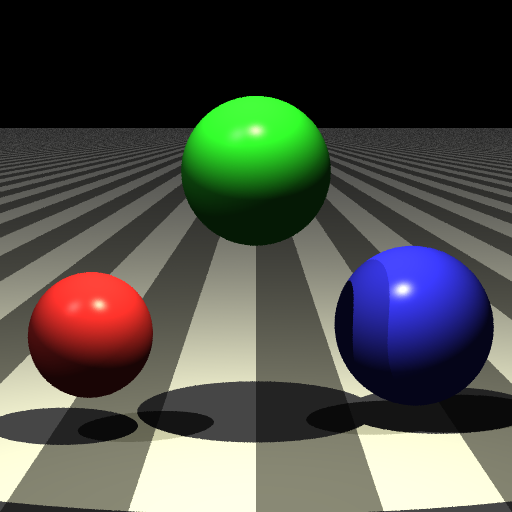
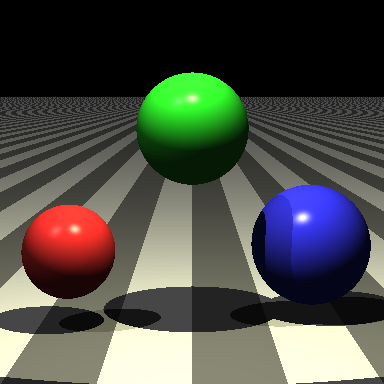
AA samples count from 4th parameter of e

diff --git a/main.cpp b/main.cpp
@@ -8,6 +8,9 @@
 #include <vector>
 #include <string>
 
+#define DEFAULT_RESOLUTION 384
+#define DAFAULT_GAMMA 1.0
+
 int main(int argc, char* argv[]) {
     if (argc < 2) {
         std::cerr << "Usage: " << argv[0] << " <scene_name_without_extension>\n";
@@ -19,39 +22,18 @@ int main(int argc, char* argv[]) {
     std::string output_file = "output_" + input_name + ".png";
 
     // Default values
-    int aa_samples = 1;
-    int px_height = 256;
-    int px_width = 256;
-    double gamma = 1.0;
+    int px_height = DEFAULT_RESOLUTION;
+    int px_width = DEFAULT_RESOLUTION;
+    double gamma = DAFAULT_GAMMA;
 
-    // Optional - Get Samples count
+    // Optional - Get resolution from input
     if (argc >= 3) {
         try {
-            aa_samples = std::stoi(argv[2]);
-            std::cout << "Got AA samples: " << aa_samples << "\n";
-        } catch (...) {
-            std::cerr << "Invalid AA sample count, using default.\n";
-        }
-    }
-
-    // Optional - Get resolution
-    if (argc >= 4) {
-        try {
-            int resolution = std::stoi(argv[3]);
+            int resolution = std::stoi(argv[2]);
             px_height = px_width = resolution;
             std::cout << "Got resolution: " << resolution << "\n";
         } catch (...) {
             std::cerr << "Invalid resolution, using default.\n";
-        }
-    }
-
-    // Optional - Get gamma
-    if (argc >= 5) {
-        try {
-            gamma = std::stod(argv[4]);
-            std::cout << "Got gamma: " << gamma << "\n";
-        } catch (...) {
-            std::cerr << "Invalid gamma value, using default.\n";
         }
     }
 
@@ -73,8 +55,12 @@ int main(int argc, char* argv[]) {
 
     // Camera
     auto camera_center = scene_parser.get_eye();
-    //int aa_samples = scene_parser.get_aa_multisampling();
     camera cam(camera_center, px_height, px_width, color(0, 0, 0)); // black bg
+
+    // get anti-aliasing samples from 4th value of e
+    int aa_samples = scene_parser.get_aa_samples();
+
+    // render
     cam.render(scene, light_sources, ambient, output_file, aa_samples, gamma);
 
     // Clean up memory

diff --git a/camera.h b/camera.h
@@ -21,6 +21,9 @@
 #include <cstdlib> // for rand()
 #include <ctime>   // for seeding rand()
 
+
+#define DEFAULT_AA_JITTER 0.8
+
 // camera always looks at center of z=0 plane
 // where the right up corner is (1,1,0) and bottom left is (-1,-1,0)
 class camera
@@ -55,6 +58,10 @@ public:
         // Calculate from exact center - for antialiasing to work without shifting
         auto pixel_upper_left = screen_origin;
 
+        // Prepare jitter multiplication
+        double jitter_mult = DEFAULT_AA_JITTER;
+        if(aa_samples == 1) jitter_mult = 0;
+
         // Render
         for (int j = 0; j < height; j++) {
             std::cout << "\rScanlines remaining: " << (height - j) << ' ' << std::flush;
@@ -63,8 +70,8 @@ public:
 
                 for (int sample = 0; sample < aa_samples; ++sample) {
                     // Jittered sample within pixel
-                    double jitter_x = ((double) std::rand() + 0.5) / (RAND_MAX + 1.0);
-                    double jitter_y = ((double) std::rand() + 0.5) / (RAND_MAX + 1.0);
+                    double jitter_x = (((double) std::rand() + 0.5) / (RAND_MAX + 1.0)) * jitter_mult;
+                    double jitter_y = (((double) std::rand() + 0.5) / (RAND_MAX + 1.0)) * jitter_mult;
 
                     double offset_u = (i + jitter_x);
                     double offset_v = (j + jitter_y);

diff --git a/parser.h b/parser.h
@@ -56,6 +56,23 @@ class parser{
             throw std::runtime_error("No 'e' (eye) line found in scene file.");
         }
 
+        int get_aa_samples(){
+            for(const auto& line : lines){
+                std::istringstream iss(line);
+                std::string identifier;
+                iss >> identifier;
+
+                if(identifier == "e"){
+                    double x, y, z, w;
+                    iss >> x >> y >> z >> w;
+                    int samples = int(w);
+                    if(samples < 1) samples = 1;
+                    return samples;
+                }
+            }
+            throw std::runtime_error("No 'e' (eye) line found in scene file.");
+        }        
+
         // Get scene objects
         std::vector<scene_object> get_scene_objects(){
             std::vector<scene_object> result;
